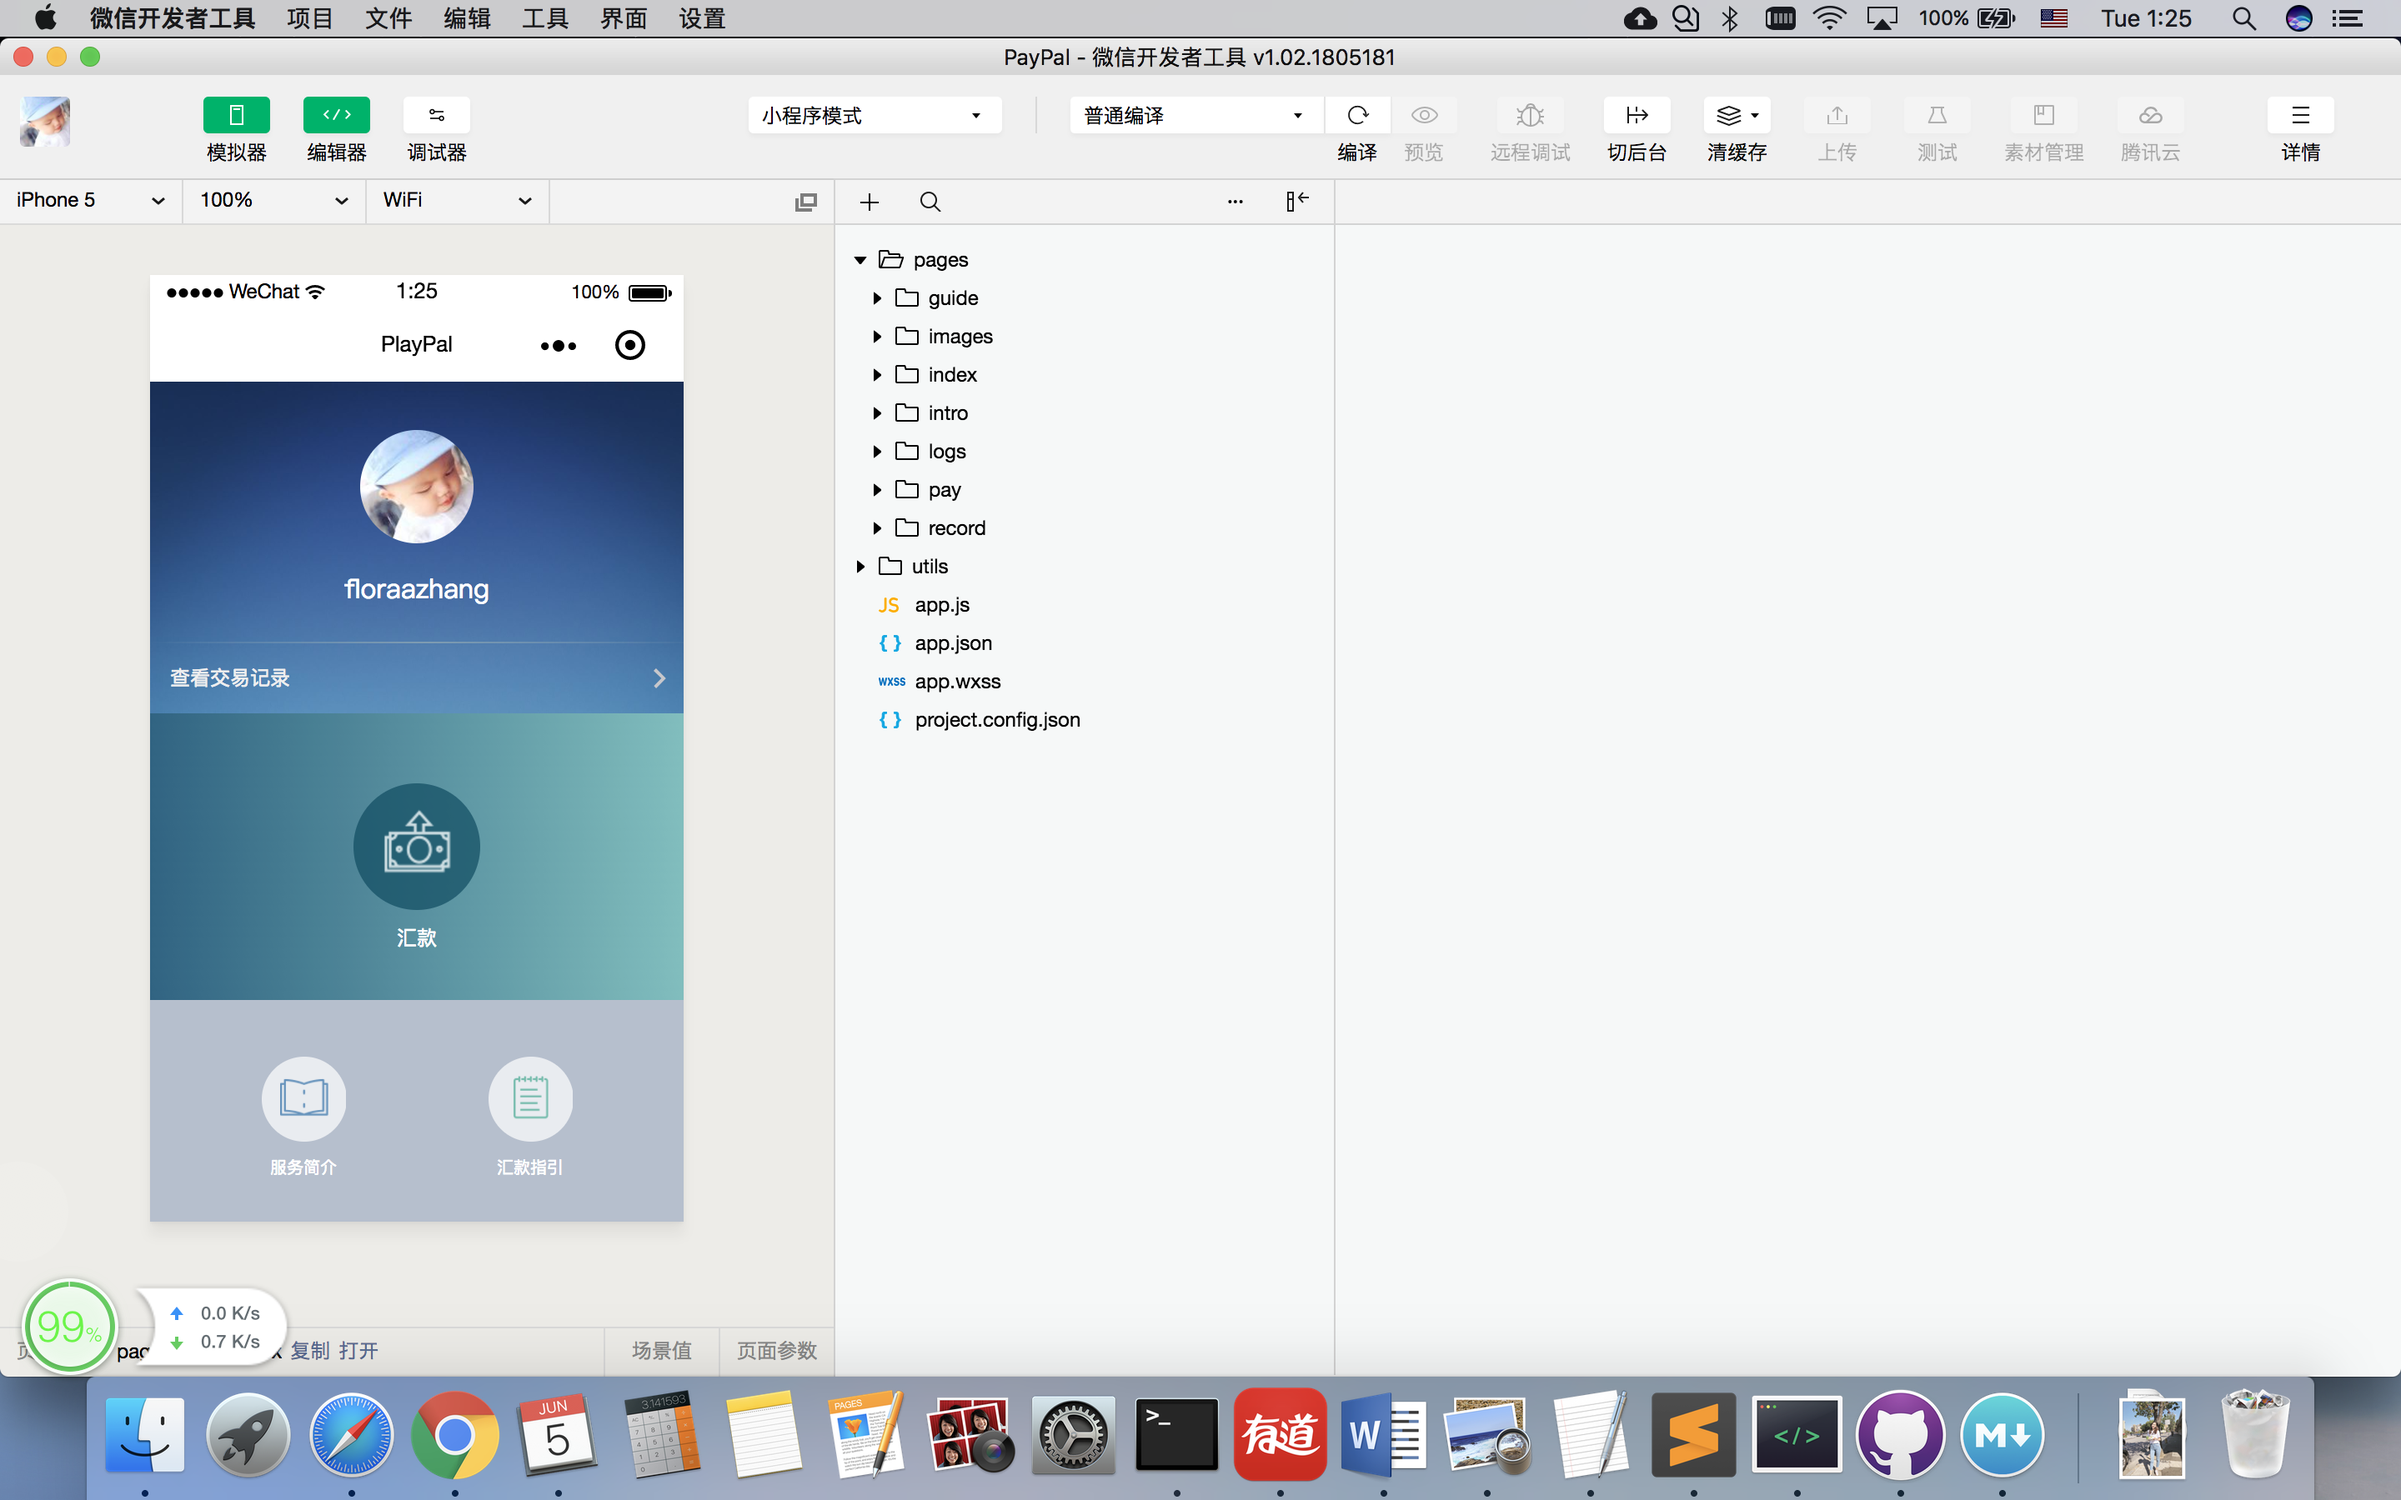
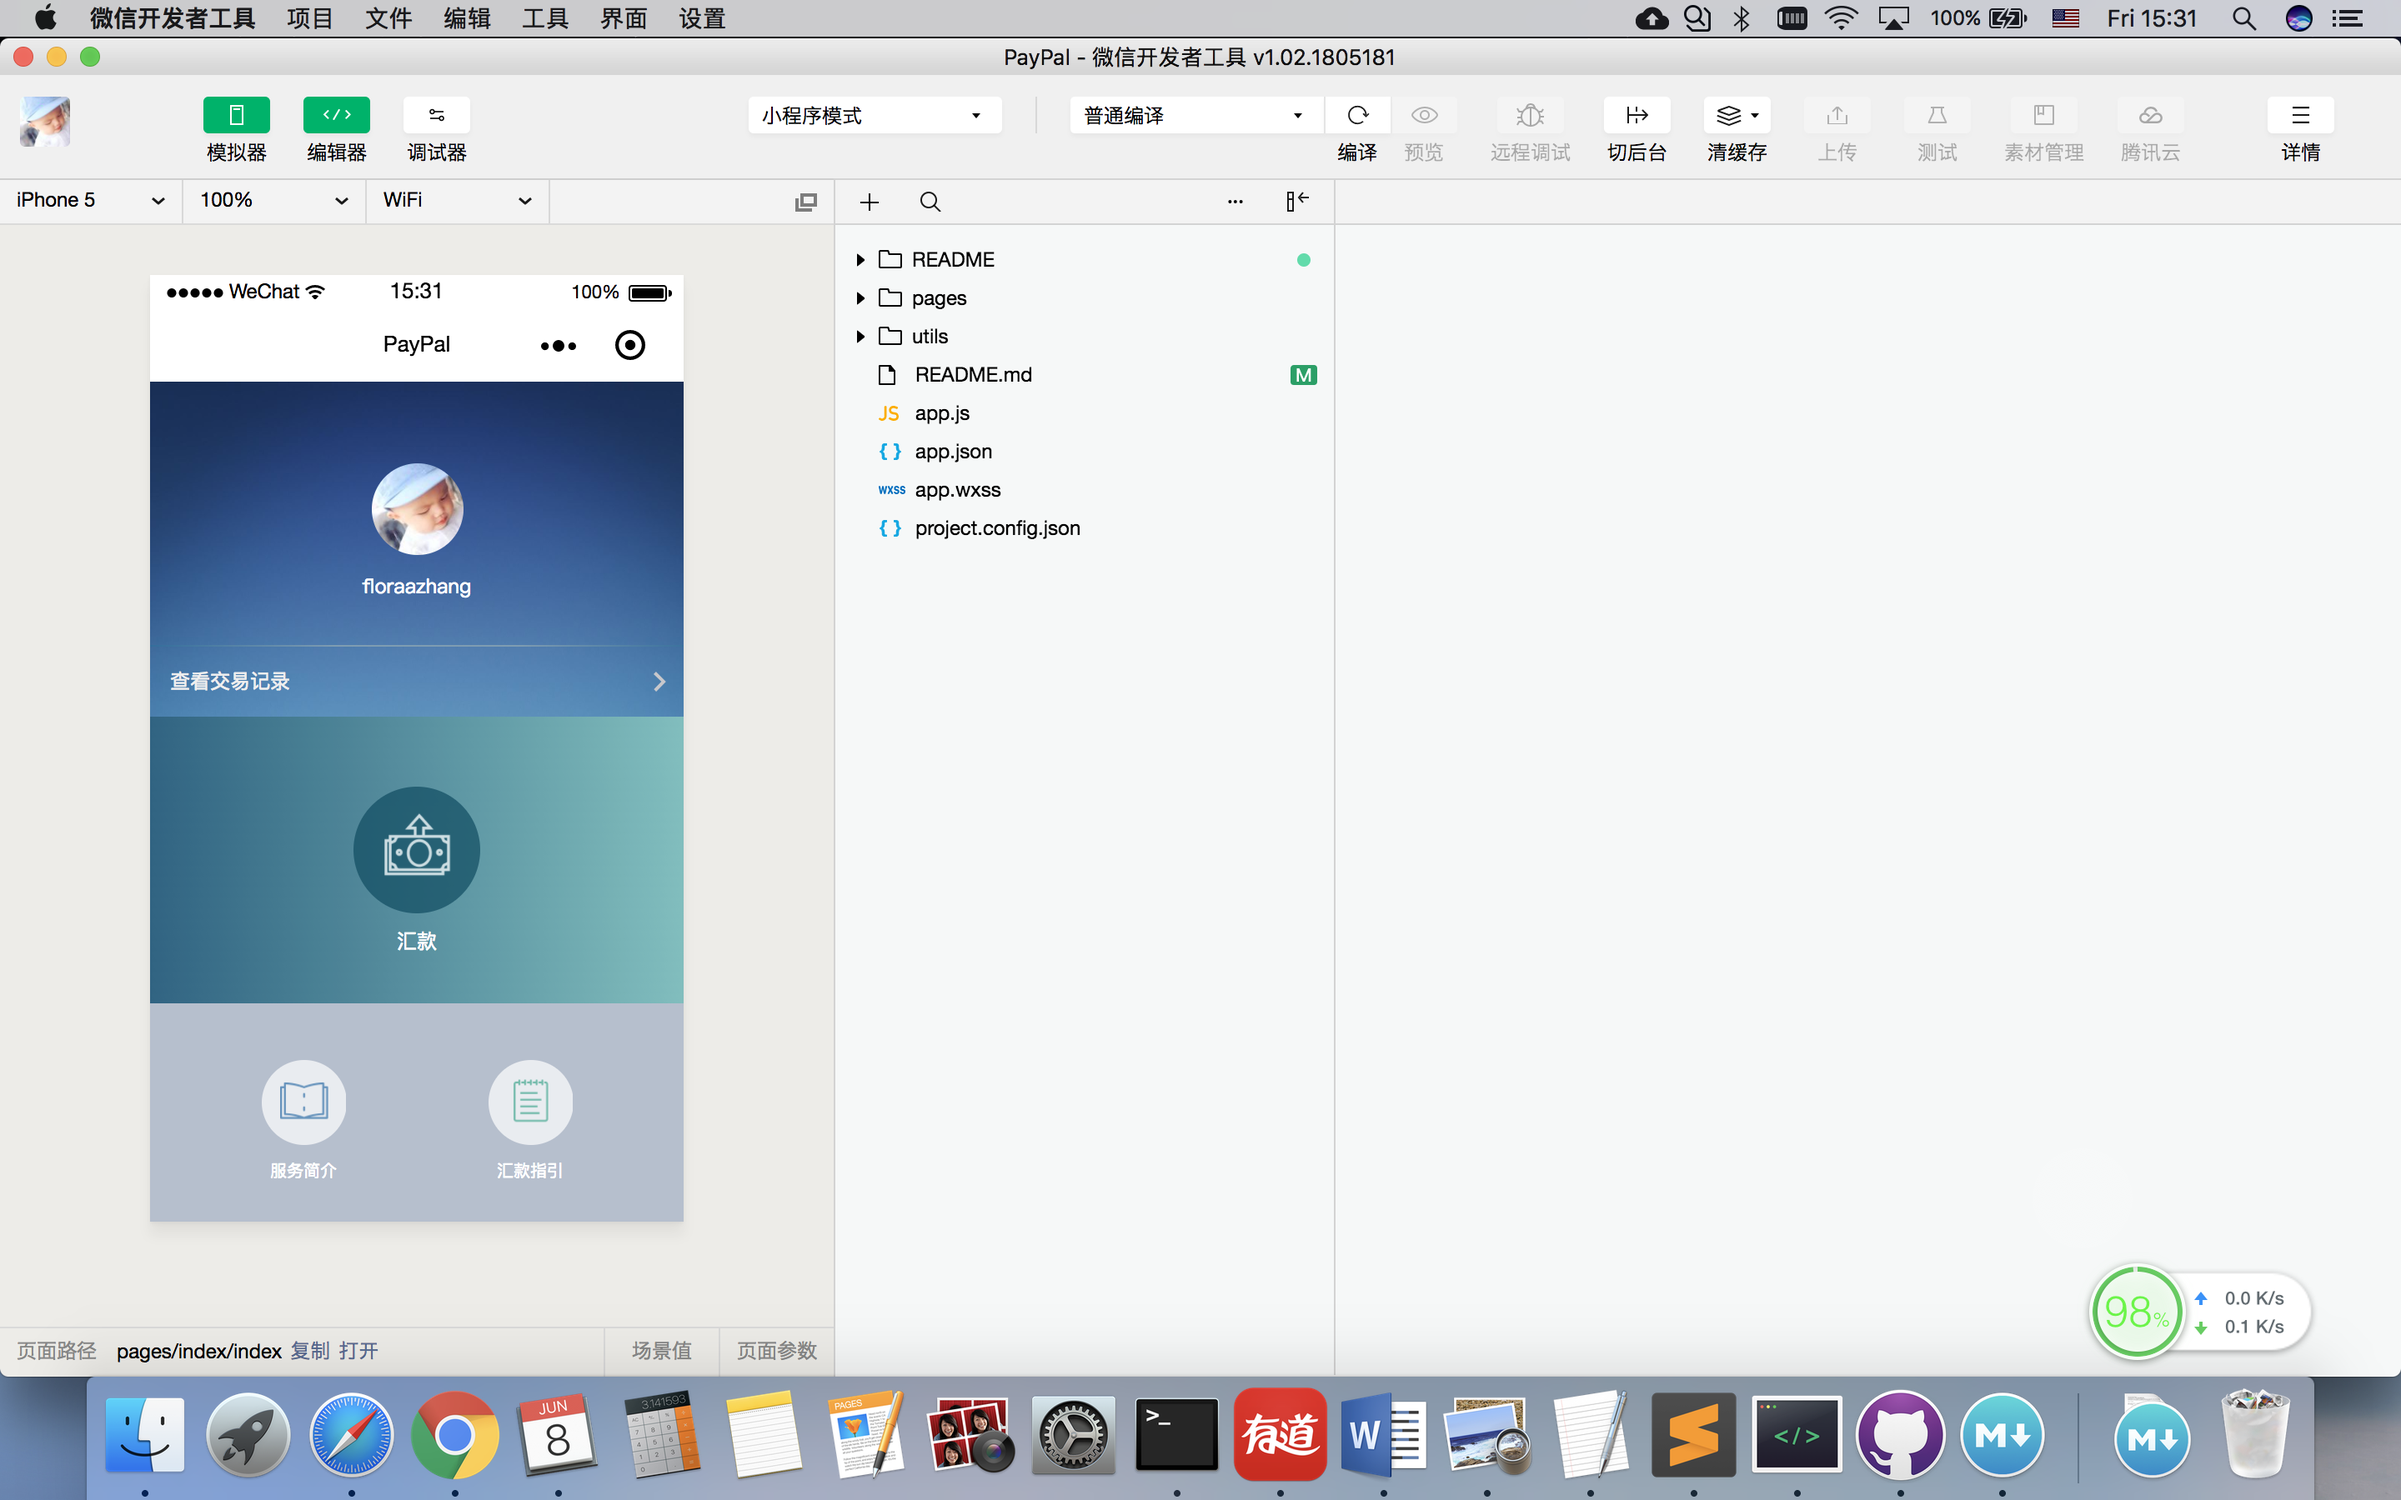
README

diff --git a/README.md b/README.md
@@ -7,10 +7,13 @@
 
 <img width="350" src="https://github.com/floraazhang/WeChat-app-demo/raw/master/README/1.png"/>
 
+
 ## 1. 在微信开发者工具中打开demo
 
 * 下载本页demo到本地
 * 下载微信开发者工具： https://developers.weixin.qq.com/miniprogram/dev/devtools/download.html
+
+<img width="100" src="https://github.com/floraazhang/WeChat-app-demo/raw/master/README/4.png"/>
 
 
 打开微信开发者工具
@@ -19,23 +22,20 @@
 * AppID: 暂时选择体验小程序（只有在上线的时候需要注册AppID ）
 * 项目名称：随意
 
-![image3](https://raw.githubusercontent.com/floraazhang/WeChat-app-demo/master/README/3.png)
+
+<img width="350" src="https://github.com/floraazhang/WeChat-app-demo/raw/master/README/6.png"/>
+
 
 ## 2. 界面介绍
 
-点击右上绿色按钮下载所有文件
-deeeeeee
-为了帮助更多初学者或是爱好者，我个人准备了一个反向代理服务器（免费开放）。希望各位**珍惜资源切勿滥用**，谢谢！
+![image3](https://raw.githubusercontent.com/floraazhang/WeChat-app-demo/master/README/3.png)
 
-接口地址：https://douban.uieee.com （支持 HTTP / HTTPS）
+左上角可以选择模拟屏幕，看小程序在不同的手机型号下是什么样子。
+<img width="350" src="https://github.com/floraazhang/WeChat-app-demo/raw/master/README/7.png"/>
 
-**接口限流：10000 次 / 1 小时**，由于是豆瓣官方的限流，所以所有使用我搭建的反向代理服务的朋友都是**共享这 10000 次请求**的，我也没办法再去提高这个数字（普通个人用户是 100 次 / 1 小时），所以还是希望大家不要滥用。
-
-当然如果还是不幸超出额度的话，就只能等待下一个整点，不明白为什么的朋友，可以自己 Google 一下接口限流：API Rate Limit。
-
-如果你可以的话，建议你自己参考我的配置文件配置一个自己的反向代理服务（这样就没人跟你抢了😀）
-
-接口配置文件仓库：https://github.com/zce/douban-api-proxy (包括解决方法)
+点亮编辑器时可以看到关于小程序的所有文件。
+<img width="350" src="https://github.com/floraazhang/WeChat-app-demo/raw/master/README/8.png"/>
+<img width="350" src="https://github.com/floraazhang/WeChat-app-demo/raw/master/README/9.png"/>
 
 ### 具体使用
 
